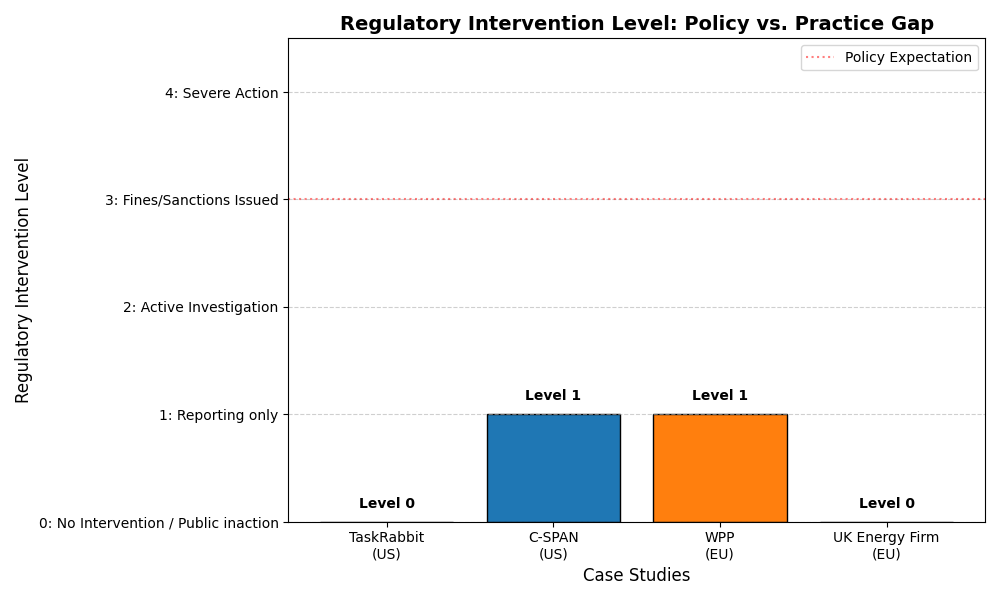
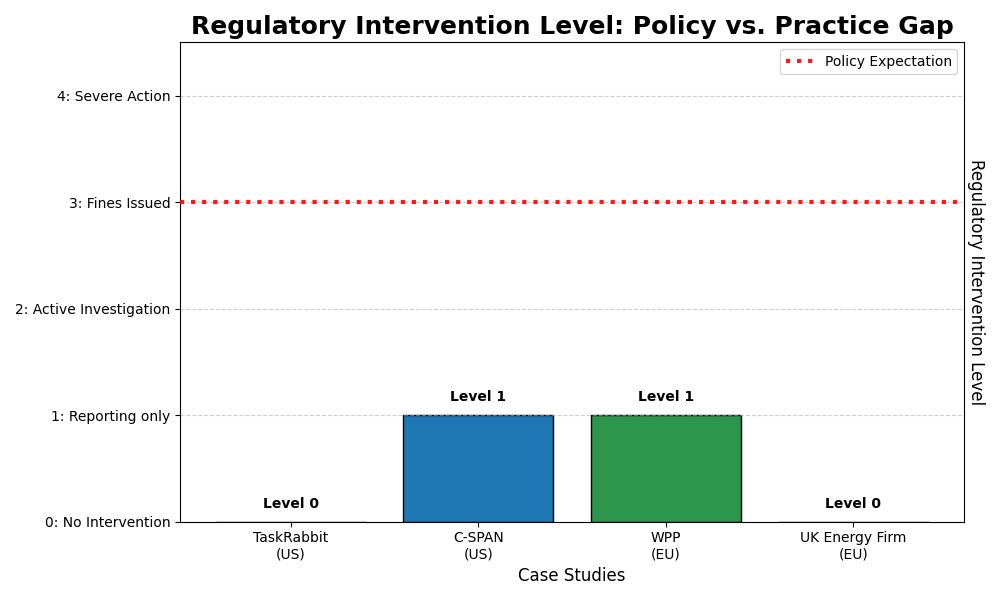
Refactor barplot visualization: update color scheme for EU regions, enhance y-axis labels, and improve expectation line visibility

diff --git a/barplot.py b/barplot.py
@@ -5,8 +5,8 @@ import matplotlib.pyplot as plt
 cases = ['TaskRabbit\n(US)', 'C-SPAN\n(US)', 'WPP\n(EU)', 'UK Energy Firm\n(EU)']
 levels = [0, 1, 1, 0] # 0: No Intervention, 1: Reporting only
 
-# Colors to distinguish regions (Blue for US, Orange for EU)
-colors = ['#1f77b4', '#1f77b4', '#ff7f0e', '#ff7f0e']
+# Colors to distinguish regions (Blue for US, Green for EU)
+colors = ['#1f77b4', '#1f77b4', "#2D954C", '#2D954C']
 
 # Create the Plot 
 plt.figure(figsize=(10, 6)) 
@@ -15,18 +15,21 @@ bars = plt.bar(cases, levels, color=colors, edgecolor='black')
 plt.ylim(0, 4.5) 
 y_ticks = [0, 1, 2, 3, 4]
 y_labels = [
-    '0: No Intervention / Public inaction',
+    '0: No Intervention',
     '1: Reporting only',
     '2: Active Investigation',
-    '3: Fines/Sanctions Issued',
+    '3: Fines Issued',
     '4: Severe Action'
 ]
 plt.yticks(y_ticks, y_labels)
 
 
-plt.ylabel('Regulatory Intervention Level', fontsize=12)
+ax = plt.gca()
+ax.set_ylabel('Regulatory Intervention Level', fontsize=12, rotation=270, labelpad=15)
+ax.yaxis.set_label_position("right")
+
 plt.xlabel('Case Studies', fontsize=12)
-plt.title('Regulatory Intervention Level: Policy vs. Practice Gap', fontsize=14, fontweight='bold')
+plt.title('Regulatory Intervention Level: Policy vs. Practice Gap', fontsize=18, fontweight='bold')
 plt.grid(axis='y', linestyle='--', alpha=0.6)
 
 
@@ -37,7 +40,7 @@ for bar in bars:
              ha='center', va='bottom', fontweight='bold')
 
 # Add Expectation Line 
-plt.axhline(y=3, color='red', linestyle=':', alpha=0.5, label='Policy Expectation')
+plt.axhline(y=3, color='red', linestyle=':', linewidth=3, alpha=0.9, zorder=5, label='Policy Expectation')
 plt.legend(loc='upper right')
 
 # Final Layout Adjustments  
